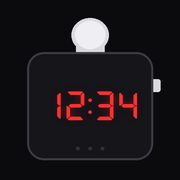
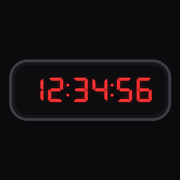
计时器：扁长条图标、细线霓虹字体、发光拆成独立效果并减弱、面板分隔线拉直（缓存 v6）

diff --git a/index.html b/index.html
@@ -20,6 +20,12 @@
     src: url('fonts/DSEG7Classic-Bold.woff2') format('woff2');
     font-weight: 700; font-style: normal; font-display: switch;
   }
+  /* 同系列「细线」字重：笔画粗细一致，就是霓虹灯管那种感觉（线条字用它）。 */
+  @font-face {
+    font-family: 'DSEG7-thin';
+    src: url('fonts/DSEG7Classic-Light.woff2') format('woff2');
+    font-weight: 300; font-style: normal; font-display: switch;
+  }
   :root {
     --bg: #fff;
     --ink: #111;
@@ -62,13 +68,12 @@
     line-height: 1; white-space: nowrap; color: var(--ink);
     font-size: 30vh;
   }
-  /* 字体三档 + 发光效果 */
+  /* 字体（三种）和「效果」分开：字体 = 黑体 / 数码管 / 线条（细线 7 段）；效果 = 不发光 / 发光。 */
   body[data-font="digital"] #time { font-family: 'DSEG7', ui-monospace, Menlo, monospace; letter-spacing: 0; }
-  body[data-font="glow"] #time { text-shadow: 0 0 4px var(--ink), 0 0 14px var(--ink), 0 0 34px var(--ink); }
-  body[data-font="outline"] #time {
-    color: transparent; -webkit-text-stroke: 2.5px var(--ink);
-    text-shadow: 0 0 8px var(--ink), 0 0 22px var(--ink);
-  }
+  body[data-font="line"] #time { font-family: 'DSEG7-thin', ui-monospace, Menlo, monospace; letter-spacing: 0; }
+  /* ⚠ 2026-10-27 需求方：「发光有点太厉害了，它会整体看起来糊糊的」——
+     只留两层很轻的光晕（1px 描亮 + 7px 柔光），不再叠 30px 那种大范围模糊。 */
+  body[data-effect="glow"] #time { text-shadow: 0 0 1px var(--ink), 0 0 7px var(--ink); }
 
   .controls { position: absolute; right: var(--safe-x); bottom: var(--safe-bottom); display: flex; gap: 10px; z-index: 6; }
   .controls .btn { width: 52px; height: 52px; border-radius: 26px; }
@@ -82,8 +87,9 @@
     box-shadow: 0 12px 40px rgba(0,0,0,.22); z-index: 20; display: none;
   }
   body.panel-open #panel { display: block; }
-  .grp { border-radius: 12px; }
-  .grp + .grp { margin-top: 4px; border-top: 1px solid var(--line); }
+  /* 每一组不做圆角（圆角会让组间分隔线变成弧形，看起来怪）；分隔线就是一条横线。 */
+  .grp { border-radius: 0; }
+  .grp + .grp { margin-top: 2px; border-top: 1px solid var(--line); }
   .grp-head {
     display: flex; align-items: center; gap: 8px; width: 100%; padding: 10px 8px;
     border: 0; background: transparent; color: var(--ctl-ink); font: inherit; font-size: 14px; cursor: pointer; text-align: left;
@@ -101,6 +107,7 @@
   }
   .chip.on { border-color: var(--ctl-ink); }
   .chip.digi { font-family: 'DSEG7', monospace; font-size: 15px; }
+  .chip.thin { font-family: 'DSEG7-thin', monospace; font-size: 15px; }
   .chip.neon { text-shadow: 0 0 6px currentColor; }
   .chip.line { color: transparent; -webkit-text-stroke: 1px var(--ctl-ink); }
 </style>
@@ -175,6 +182,12 @@
         </button>
         <div class="opts" id="optsFont"></div>
       </div>
+      <div class="grp" data-grp="effect">
+        <button class="grp-head" type="button"><span>效果</span><span class="cur"></span>
+          <svg class="chev" width="14" height="14" viewBox="0 0 24 24" fill="none" stroke="currentColor" stroke-width="2.4" stroke-linecap="round" stroke-linejoin="round"><path d="M9 5l7 7-7 7"></path></svg>
+        </button>
+        <div class="opts" id="optsEffect"></div>
+      </div>
     </div>
   </div>
 
@@ -210,14 +223,18 @@
   const FONTS = [
     { id: 'sans', label: '黑体' },
     { id: 'digital', label: '数码管', cls: 'digi' },
-    { id: 'glow', label: '发光', cls: 'neon' },
-    { id: 'outline', label: '线条', cls: 'line' },
+    { id: 'line', label: '线条', cls: 'thin' },
   ];
-  const STORE = { bg: 'timer.bg', color: 'timer.color', font: 'timer.font', rotated: 'timer.rotated' };
+  const EFFECTS = [
+    { id: 'none', label: '不发光' },
+    { id: 'glow', label: '发光' },
+  ];
+  const STORE = { bg: 'timer.bg', color: 'timer.color', font: 'timer.font', effect: 'timer.effect', rotated: 'timer.rotated' };
   const theme = {
     bg: 'light',
     color: 'ink',
     font: 'sans',
+    effect: 'none',
   };
   function load(k, dflt) { try { return localStorage.getItem(k) || dflt; } catch (e) { return dflt; } }
   function save(k, v) { try { localStorage.setItem(k, v); } catch (e) {} }
@@ -229,23 +246,24 @@
     const color = byId(COLORS, theme.color);
     document.body.dataset.bg = bg.css;
     document.body.dataset.font = byId(FONTS, theme.font).id;
+    document.body.dataset.effect = byId(EFFECTS, theme.effect).id;
     document.documentElement.style.setProperty('--ink', color.value);
-    timeEl.style.color = document.body.dataset.font === 'outline' ? 'transparent' : color.value;
+    timeEl.style.color = color.value;
     document.querySelector('meta[name="theme-color"]').setAttribute('content', bg.css === 'dark' ? '#000000' : '#ffffff');
     paintPickers();
     requestAnimationFrame(fit);
   }
 
   function paintPickers() {
-    const groups = { bg: BG, color: COLORS, font: FONTS };
+    const groups = { bg: BG, color: COLORS, font: FONTS, effect: EFFECTS };
     Object.keys(groups).forEach((g) => {
-      const host = document.getElementById(g === 'bg' ? 'optsBg' : g === 'color' ? 'optsColor' : 'optsFont');
+      const host = document.getElementById(g === 'bg' ? 'optsBg' : g === 'color' ? 'optsColor' : g === 'font' ? 'optsFont' : 'optsEffect');
       host.innerHTML = '';
       groups[g].forEach((opt) => {
         const el = document.createElement('button');
         el.type = 'button';
-        el.className = g === 'font' ? ('chip ' + (opt.cls || '')) : (g === 'bg' ? 'sw' : 'sw');
-        if (g === 'font') el.textContent = opt.label;
+        el.className = g === 'font' ? ('chip ' + (opt.cls || '')) : (g === 'effect' ? 'chip' : 'sw');
+        if (g === 'font' || g === 'effect') el.textContent = opt.label;
         else el.style.background = opt.sw;
         el.title = opt.label;
         el.setAttribute('aria-label', opt.label);
@@ -389,6 +407,7 @@
   theme.bg = load(STORE.bg, 'light');
   theme.color = load(STORE.color, theme.bg === 'dark' ? 'white' : 'ink');
   theme.font = load(STORE.font, 'sans');
+  theme.effect = load(STORE.effect, 'none');
   applyTheme();
   if (load(STORE.rotated, '0') === '1') applyRotate(true);
   paint();

diff --git a/sw.js b/sw.js
@@ -5,12 +5,13 @@
    · 应用外壳（index.html / 字体 / 图标 / manifest / favicon）：cache-first（限本版本缓存）。
    · 其它同源请求：网络优先，失败回缓存。
    ⚠ 取缓存一定要 `caches.open(CACHE)` 再 match —— 直接 `caches.match()` 会跨所有历史版本缓存命中旧页面。 */
-const CACHE = 'timer-cache-v5';
+const CACHE = 'timer-cache-v6';
 const SHELL = [
   './',
   './index.html',
   './manifest.webmanifest',
   './fonts/DSEG7Classic-Bold.woff2',
+  './fonts/DSEG7Classic-Light.woff2',
   './favicon.ico',
   './icons/icon-192.png',
   './icons/icon-512.png',

diff --git a/大按键计时器-方案.md b/大按键计时器-方案.md
@@ -13,7 +13,10 @@
 - 左上角：**主题设置**（三组、点一下展开、点选项立即生效）：
   - 底色：白底 / 黑底；
   - 字体颜色：黑 / 白 / 红 / 黄 / 蓝 / 绿 / 紫（黑底+黑字这种看不见的组合会自动换成能看清的）；
-  - 字体：黑体 / 数码管（DSEG7）/ 发光（neon glow）/ 线条（描边+发光）。
+  - 字体：黑体 / 数码管（DSEG7 粗）/ 线条（DSEG7 细线，笔画一样粗、霓虹灯管感）；
+  - 效果：不发光 / 发光（很轻的两层光晕，不铺大范围模糊，避免整屏发糊）。
+- 面板分隔线是**直的横线**（每组不做圆角，避免组间分隔线变弧形）。
+- 应用图标：**扁长条计时器表体 + 中间数码管时间**（分:秒:厘秒三组），没有实体按钮。
 - **所有设置存 localStorage**（底色 / 字色 / 字体 / 是否旋转），下次打开保持。
 - **PWA**：带 manifest + Service Worker，加到主屏幕后**离线也能打开**（页面/字体/图标预缓存）。
 - 部署：GitHub Pages（公开仓库），不走自家服务器。

diff --git a/日志.md b/日志.md
@@ -27,3 +27,8 @@
 
 - 需求：旋转按钮换成"竖屏+横屏+圆箭头"图标；全屏按钮做展开/收起两态；左上角加主题（底色 / 字色 / 字体三组，数码管、发光、线条）；页面缓存到桌面、离线可用；设置存 localStorage。
 - 交付：主题系统 3×7×4 组（白/黑底、7 色、4 字体）；DSEG7 字体自带；PWA manifest + SW（离线验证通过）；图标重画。
+
+## 2026-10-27（晚，第三版）
+
+- 需求：图标改扁长条（不要按钮）、中间数码管三组数（分:秒:厘秒）；发光太糊要减弱；「线条字」改成霓虹灯管那种等宽细线（找了 DSEG7 Light 当同款）；发光拆成独立的「效果」开关；主题面板分隔线改直。
+- 交付：扁长条 icon + favicon；字体三档（黑体/数码管/线条）+ 效果两档（不发光/发光）；发光减到两层；面板四组、分隔线直；缓存 v6。

diff --git a/README.md b/README.md
@@ -6,7 +6,8 @@
 
 - 页面打开就是计时器；**按大按键（Enter）= 开始 / 暂停 / 继续**；
 - 右下角：复位（↻）、开始/暂停（▶/⏸）；右上角：旋转（竖屏也能横着看大数字）、全屏（图标随状态切换）；
-- 左上角：主题 —— **底色**（白/黑）、**字体颜色**（黑/白/红/黄/蓝/绿/紫）、**字体**（黑体/数码管/发光/线条）；
+- 左上角：主题 —— **底色**（白/黑）、**字体颜色**（黑/白/红/黄/蓝/绿/紫）、**字体**（黑体/数码管/线条）、**效果**（不发光/发光）；
+  - 「线条」= 7 段数码管的**细线**字重（笔画一样粗，像霓虹灯管），配「发光」就是霓虹风；
 - 所有设置都存 `localStorage`，下次打开还是上次那套。
 
 ## 加到桌面 / 离线
